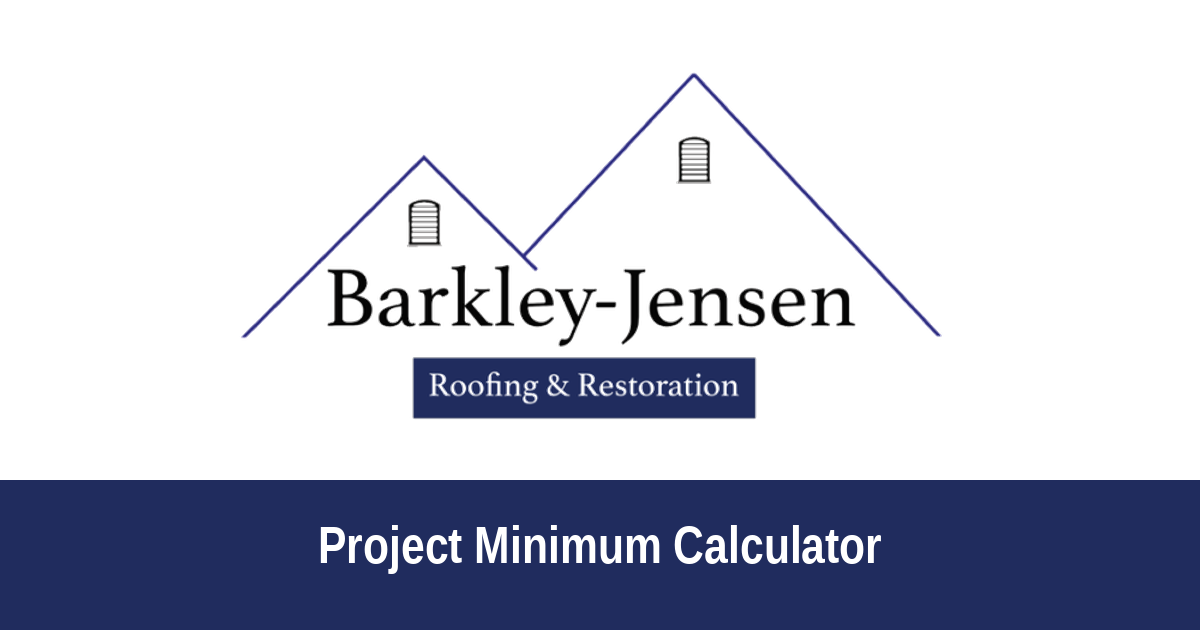
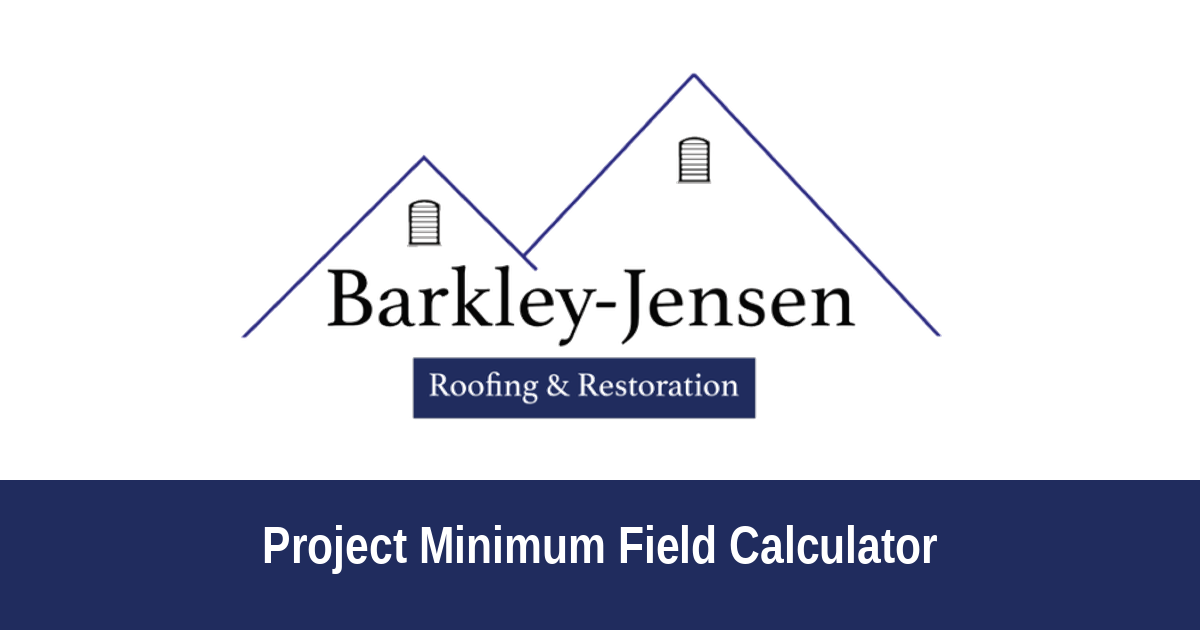
Rename to Project Minimum Field Calculator

Changed region(s): [[0.2158, 0.8143, 0.8017, 0.9048]]

diff --git a/index.html b/index.html
@@ -3,19 +3,19 @@
 <head>
 <meta charset="utf-8">
 <meta name="viewport" content="width=device-width,initial-scale=1">
-<title>Project Minimum | Barkley-Jensen</title>
+<title>Project Minimum Field Calculator | Barkley-Jensen</title>
 <meta name="description" content="Barkley-Jensen Roofing & Restoration project minimum calculator.">
 <meta property="og:type" content="website">
 <meta property="og:site_name" content="Barkley-Jensen Roofing & Restoration">
-<meta property="og:title" content="Project Minimum Calculator | Barkley-Jensen">
+<meta property="og:title" content="Project Minimum Field Calculator | Barkley-Jensen">
 <meta property="og:description" content="Barkley-Jensen Roofing & Restoration">
 <meta property="og:url" content="https://barkleyjenseninvoices-wq.github.io/project-minimum/">
-<meta property="og:image" content="https://barkleyjenseninvoices-wq.github.io/project-minimum/og-image.png">
+<meta property="og:image" content="https://barkleyjenseninvoices-wq.github.io/project-minimum/og-image.png?v=2">
 <meta property="og:image:width" content="1200">
 <meta property="og:image:height" content="630">
 <meta name="twitter:card" content="summary_large_image">
-<meta name="twitter:title" content="Project Minimum Calculator | Barkley-Jensen">
-<meta name="twitter:image" content="https://barkleyjenseninvoices-wq.github.io/project-minimum/og-image.png">
+<meta name="twitter:title" content="Project Minimum Field Calculator | Barkley-Jensen">
+<meta name="twitter:image" content="https://barkleyjenseninvoices-wq.github.io/project-minimum/og-image.png?v=2">
 <link rel="icon" type="image/png" href="icon.png">
 <link rel="apple-touch-icon" href="icon.png">
 <meta name="robots" content="noindex,nofollow">
@@ -49,7 +49,7 @@ footer{margin-top:22px;font-size:12px;color:var(--muted);max-width:440px;text-al
 <body>
 <header><img src="logo.png" alt="Barkley-Jensen Roofing &amp; Restoration" width="220" height="102"></header>
 <main>
-  <h1>Project Minimum</h1>
+  <h1>Project Minimum Field Calculator</h1>
   <p class="lead">Enter the projected job cost. The minimum starts at $750 and rises automatically as you type.</p>
   <label for="cost">Projected job cost</label>
   <div class="field"><span>$</span><input id="cost" type="number" inputmode="decimal" min="0" step="1" placeholder="0" autocomplete="off"></div>
